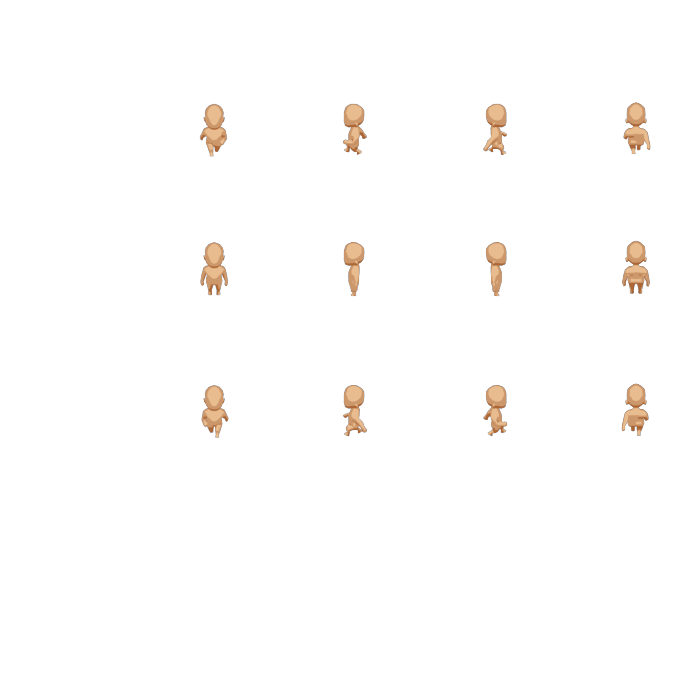
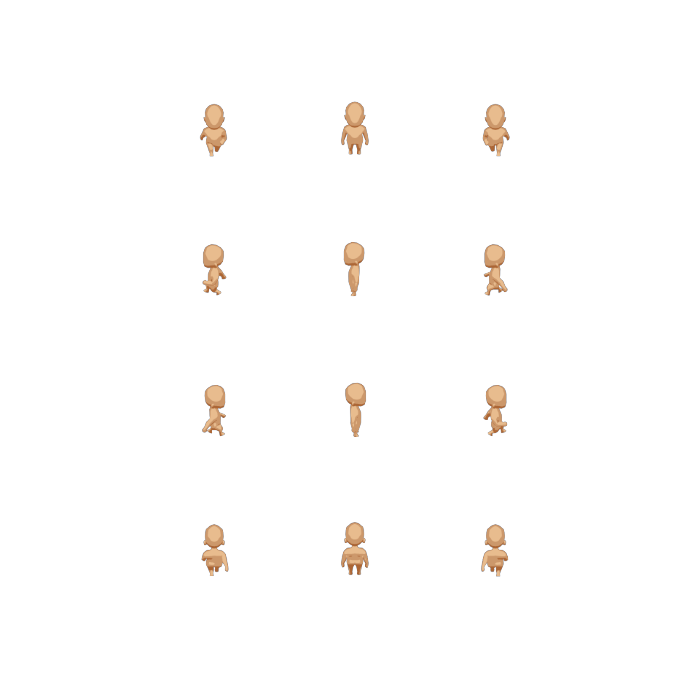
Fix

diff --git a/Assets/Scripts/FileManager.cs b/Assets/Scripts/FileManager.cs
@@ -23,8 +23,8 @@ public class FileManager : MonoBehaviour
     private string path;
     private string[] files;
 
-    public int columns;
     public int rows;
+    public int columns;
 
     private int fileCounter = 0;
 
@@ -46,9 +46,9 @@ public class FileManager : MonoBehaviour
 
         button.SetActive(false);
 
-        for (int i = 0; i < columns; i++)
+        for (int i = 0; i < rows; i++)
         {
-            for (int j = 0; j < rows; j++)
+            for (int j = 0; j < columns; j++)
             {
                 if (fileCounter < files.Length)
                 {
@@ -56,7 +56,7 @@ public class FileManager : MonoBehaviour
                     WWW www = new WWW("file:///" + files[fileCounter]);
                     tempTexture = www.texture;
 
-                    grid[i, j] = tempTexture;
+                    grid[j, i] = tempTexture;
                     
 
                     print("file" + fileCounter);
@@ -78,21 +78,21 @@ public class FileManager : MonoBehaviour
     public void SpawnGrid()
     {
         
-        for (int i = 0; i < columns; i++)
+        for (int i = 0; i < rows; i++)
         {
-            for (int j = 0; j < rows; j++)
+            for (int j = 0; j < columns; j++)
             {
                 var image = Instantiate(defaultImage, transform.position, transform.rotation);                 
                 
                 image.transform.parent = panel.transform;                
-                image.texture = grid[i,j];
-                image.GetComponent<RectTransform>().sizeDelta = new Vector2(grid[i, j].width / factor, grid[i, j].height / factor);
+                image.texture = grid[j,i];
+                image.GetComponent<RectTransform>().sizeDelta = new Vector2(grid[j, i].width / factor, grid[j, i].height / factor);
                 print("Width: " + image.texture.width + "\n Height: " + image.texture.height);
-                image.transform.position = new Vector2(start.position.x + (i * image.texture.width / factor), start.position.y - (j * image.texture.height / factor));
+                image.transform.position = new Vector2(start.position.x + (j * image.texture.width / factor), start.position.y - (i * image.texture.height / factor));
             }
         }
 
-        print(Mathf.RoundToInt((grid[0, 0].width * columns) / factor) + " " + Mathf.RoundToInt((grid[0, 0].height * rows) / factor));
+        print(Mathf.RoundToInt((grid[0, 0].width * rows) / factor) + " " + Mathf.RoundToInt((grid[0, 0].height * columns) / factor));
 
         FindObjectOfType<ScreenShotHandler>().TakeScreenshot(Screen.width, Screen.height, name);
         
